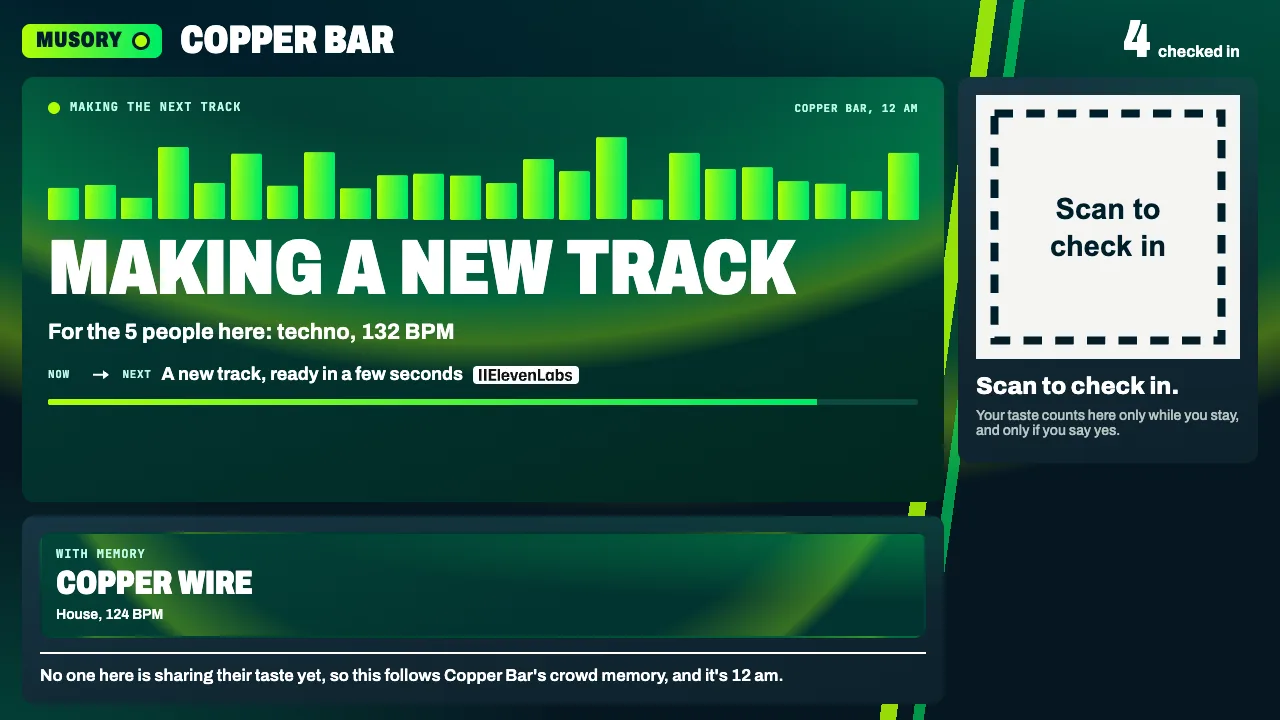
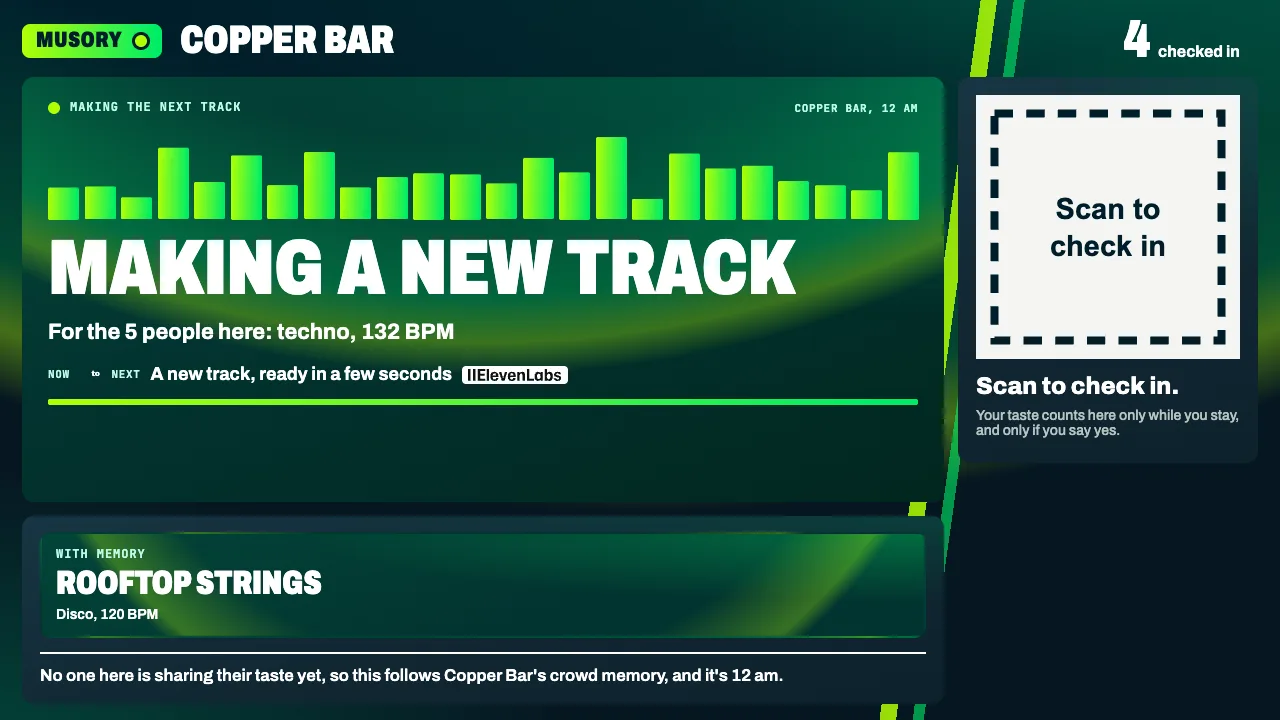
A crowd check through the public link: 15 guests at once

diff --git a/scripts/crowd-public.ts b/scripts/crowd-public.ts
@@ -1,0 +1,52 @@
+// Many guests at once through the public link: 15 headless guests check in with consent, like a few
+// tracks, 3 tell the room what they want, 2 say forget me, all in parallel. Then everyone is forgotten.
+export {};
+const BASE = (process.env.BASE || "").replace(/\/$/, ""); // the public link, e.g. BASE=https://<your-link>
+if (!BASE) throw new Error("Set BASE to the public link");
+const N = Number(process.env.CROWD_N || 15);
+const sleep = (ms: number) => new Promise((r) => setTimeout(r, ms));
+let errors = 0;
+async function post(path: string, body: unknown) {
+  const r = await fetch(BASE + path, { method: "POST", headers: { "content-type": "application/json" }, body: JSON.stringify(body) });
+  const j = await r.json().catch(() => ({}));
+  if (r.status >= 400 && r.status !== 429) errors++;
+  return { status: r.status, ...j };
+}
+let sse = 0;
+const ac = new AbortController();
+void (async () => {
+  const r = await fetch(`${BASE}/events`, { signal: ac.signal });
+  const reader = r.body!.getReader();
+  const dec = new TextDecoder();
+  for (;;) {
+    const { value, done } = await reader.read().catch(() => ({ value: undefined, done: true }));
+    if (done) break;
+    sse += (dec.decode(value).match(/^event:/gm) ?? []).length;
+  }
+})();
+const run = Date.now() % 10000;
+const ids = Array.from({ length: N }, (_, i) => `aud-${run}-${i}`);
+const t0 = Date.now();
+const checkins = await Promise.all(ids.map((id, i) => post("/api/checkin", { personId: id, venueId: i % 3 === 2 ? "basement" : "copper" })));
+const present = (await fetch(`${BASE}/api/room/copper`).then((r) => r.json())).present;
+const samples = ["t13", "t10", "t17", "t15", "t08", "t05"];
+let limited = 0;
+for (const k of [0, 1]) {
+  const rs = await Promise.all(ids.map((id, i) => post("/api/tap", { personId: id, signal: 1, trackId: samples[(i + k) % samples.length] })));
+  limited += rs.filter((r) => r.status === 429).length;
+  await sleep(1100);
+}
+const vibes = await Promise.all(ids.slice(0, 3).map((id) => post("/api/vibe", { personId: id, text: "something dark and driving" })));
+await sleep(1500);
+// Two guests say forget me at the same time; each receipt must count only that guest's records.
+const mine = await Promise.all(ids.slice(3, 5).map((id) => fetch(`${BASE}/api/me?personId=${id}`).then((r) => r.json())));
+const forgets = await Promise.all(ids.slice(3, 5).map((id) => post("/api/forget", { personId: id })));
+const ownOnly = forgets.every((f, i) => f.before?.taps === mine[i].taps.length && f.totalAfter === 0);
+console.log(`${N} guests: check-ins ${checkins.filter((c) => c.status === 200).length}/${N}, distinct ids ${new Set(checkins.map((c) => c.personId)).size}, Copper Bar shows ${present} here`);
+console.log(`likes rate-limited: ${limited}; vibes ok ${vibes.filter((v) => v.status === 200).length}/3; forget receipts count only their own records: ${ownOnly} (${forgets.map((f) => `${f.totalBefore}->${f.totalAfter}`).join(", ")})`);
+console.log(`errors ${errors}, SSE events seen ${sse}, ${((Date.now() - t0) / 1000).toFixed(1)} s`);
+// Clean up: everyone left is forgotten (one after another, so the rooms settle).
+for (const id of ids.slice(5).concat(ids.slice(0, 3))) await post("/api/forget", { personId: id });
+ac.abort();
+console.log("all test guests forgotten");
+process.exit(errors ? 1 : 0);

diff --git a/public/js/phone.js b/public/js/phone.js
@@ -143,7 +143,7 @@ function showForgotten(r) {
   $("forgetting").classList.add("hidden");
   const el = $("receipt");
   const RING = `<svg class="mark ring wide draw" viewBox="0 0 220 110" preserveAspectRatio="none" aria-hidden="true"><path d="M34 5 C 90 1, 160 1, 208 7 C 217 32, 217 78, 209 103 C 150 109, 70 109, 11 103 C 3 78, 3 32, 12 8 C 30 4, 52 3, 70 4"/></svg>`;
-  el.innerHTML = `<div style="display:flex;justify-content:space-between;align-items:center"><a class="back" href="/about" id="receipt-back" aria-label="Back to Musory">&larr; Back</a><span class="wordmark">Musory</span></div>
+  el.innerHTML = `<div style="display:flex;justify-content:space-between;align-items:center"><a class="back" href="/about" id="receipt-back" aria-label="Back to Musory">Back</a><span class="wordmark">Musory</span></div>
     <h1 class="display">You're forgotten</h1>
     <div class="figure marked" id="receipt-count" data-testid="receipt-count">${r.totalBefore}<span class="count-arrow"></span>${r.totalAfter}${RING}</div>
     <p>records about you, deleted in one step</p>
@@ -240,7 +240,7 @@ $("bored").addEventListener("click", () => { $("more").open = false; });
   let x0 = null, dx = 0;
   // One gentle nudge on first load shows the card can be swiped
   if (!reduce) { card.classList.add("nudge"); card.addEventListener("animationend", () => card.classList.remove("nudge"), { once: true }); }
-  const stamps = (v) => { card.querySelector(".stamp-like").style.opacity = Math.max(0, Math.min(1, v / 90)); card.querySelector(".stamp-skip").style.opacity = Math.max(0, Math.min(1, -v / 90)); };
+  const stamps = (v) => { const L = card.querySelector(".edge-l"), Rr = card.querySelector(".edge-r"); const kl = Math.max(0, Math.min(1, -v / 90)), kr = Math.max(0, Math.min(1, v / 90)); L.style.transform = `scale(${1 + kl * .4})`; L.style.color = kl > .3 ? "#FFFFFF" : ""; Rr.style.transform = `scale(${1 + kr * .4})`; Rr.style.color = kr > .3 ? "var(--band)" : ""; card.querySelector(".stamp-like").style.opacity = Math.max(0, Math.min(1, v / 90)); card.querySelector(".stamp-skip").style.opacity = Math.max(0, Math.min(1, -v / 90)); };
   const reset = () => { card.classList.remove("dragging"); card.style.transform = ""; stamps(0); };
   card.addEventListener("pointerdown", (e) => { x0 = e.clientX; dx = 0; card.classList.add("dragging"); card.setPointerCapture(e.pointerId); });
   card.addEventListener("pointermove", (e) => { if (x0 === null) return; dx = e.clientX - x0; card.style.transform = `translateX(${dx}px) rotate(${dx / 18}deg)`; stamps(dx); });

diff --git a/public/phone.html b/public/phone.html
@@ -81,8 +81,8 @@
   .swipe-wrap > .swipe-card { position: absolute; inset: 0; z-index: 1; display: flex; flex-direction: column; justify-content: flex-end; gap: 10px; padding: 24px 22px 54px; touch-action: pan-y; }
   .swipe-card .t { font-size: calc(clamp(42px, 13vw, 60px) * var(--dscale)) !important; line-height: .92; }
   .swipe-card .g { font-size: 18px !important; }
-  .edge { position: absolute; bottom: 18px; font: 700 13px var(--f-mono); letter-spacing: .06em; text-transform: uppercase; color: var(--slab-muted); }
-  .edge-l { left: 22px; } .edge-r { right: 22px; color: var(--band); }
+  .edge { display: inline-flex; align-items: center; gap: 6px; transition: transform .15s var(--ease), color .15s var(--ease); position: absolute; bottom: 18px; font: 700 13px var(--f-mono); letter-spacing: .06em; text-transform: uppercase; color: var(--slab-muted); }
+  .edge-l { left: 22px; transform-origin: left center; } .edge-r { right: 22px; transform-origin: right center; }
   .swipe-wrap .stamp { top: 22px; font-size: 34px; padding: 6px 14px; border-radius: 10px; border-width: 4px; }
   .swipe-wrap .stamp-like { right: 22px; } .swipe-wrap .stamp-skip { left: 22px; }
   .swipe-card.nudge { animation: nudge 1.3s .7s 1 cubic-bezier(.16, 1, .3, 1); }
@@ -164,7 +164,7 @@
         <h2 id="now-title" class="display t" data-track-id="">…</h2>
         <span id="now-meta" class="g"></span>
         <div class="progress"><div id="now-progress"></div></div>
-        <span class="edge edge-l" aria-hidden="true">&larr; Skip</span><span class="edge edge-r" aria-hidden="true">Like &rarr;</span>
+        <span class="edge edge-l" aria-hidden="true"><svg viewBox="0 0 24 24" width="16" height="16" aria-hidden="true"><path d="M5 5l14 14M19 5L5 19" stroke="currentColor" stroke-width="3" stroke-linecap="round" fill="none"/></svg>Skip</span><span class="edge edge-r" aria-hidden="true"><svg viewBox="0 0 24 24" width="16" height="16" aria-hidden="true"><path d="M12 21s-7.5-4.6-9.6-9.2C1 8.6 3 5 6.6 5c2.1 0 3.5 1.2 4.4 2.6.9-1.4 2.3-2.6 4.4-2.6C19 5 21 8.6 21.6 11.8 19.5 16.4 12 21 12 21z" fill="currentColor"/></svg>Like</span>
       </div>
     </div>
     <div class="actions">

diff --git a/public/css/musory.css b/public/css/musory.css
@@ -213,3 +213,7 @@ html, body { overflow-x: clip; }
 .map svg.wires { position: absolute; inset: 0; width: 100%; height: 100%; z-index: 0; overflow: visible; pointer-events: none; }
 .map .wl { position: absolute; z-index: 2; font: 700 13px var(--f-mono); text-transform: uppercase; letter-spacing: .05em; color: var(--band); background: var(--bg-2); padding: 2px 6px; white-space: nowrap; }
 @media (max-width: 760px) { .map { gap: 30px 14px; } .map .nd { min-width: 0; padding: 12px; } .map .nd .word { font-size: 20px; } .map .nd .lg img { height: 20px; } .map .nd span.cap { font-size: 12px; } .map .wl { display: none; } }
+
+/* Counts read "21 to 0": a word, not an arrow glyph or shape */
+.count-arrow { display: inline-block; width: auto; height: auto; background: none; clip-path: none; margin: 0 .22em; vertical-align: .18em; font-size: .42em; font-weight: 900; letter-spacing: 0; }
+.count-arrow::before { content: "to"; }

diff --git a/README.md b/README.md
@@ -72,7 +72,7 @@ The search is exact (`$vectorSearch` with `exact: true`), pre-filtered on the de
 | Question | Rule | Enforced by | Proof (live) |
 |---|---|---|---|
 | How do you keep one client's memory from leaking into another's? | Each venue reads its own crowd memory through its own database login and View. Venue logins can't read guests' taps or taste | Atlas database users with `read` on one View each | Pulse Club's login reading Copper Bar's View: **13 Unauthorized**. A venue login reading `taps`: **13** |
-| How does the agent fix or drop a memory that is wrong or expired? | **Bored of this** marks your likes of the current sound `superseded` (kept, with who and when; Undo restores them). **Tonight only** keeps taps out of your long-term taste unless you tap "Keep this one". **Forget me** removes everything | A transaction for bored and undo; a `constraint`-level validator on taste; one transaction with `$graphLookup` for forget me | A tonight-only tap written into long-term taste: **121**. Forget me: **N → 0** |
+| How does the agent fix or drop a memory that is wrong or expired? | **Bored of this** marks your likes of the current sound `superseded` (kept, with who and when; Undo restores them). **Tonight only** keeps taps out of your long-term taste unless you tap "Keep this one". **Forget me** removes everything | A transaction for bored and undo; a `constraint`-level validator on taste; one transaction with `$graphLookup` for forget me | A tonight-only tap written into long-term taste: **121**. Forget me: **N to 0** |
 | How do you prove memory changed behavior? | Each pick is logged next to the no-memory pick. Before forget me, the guest's page shows what each room will play without them, from the same function forget me is checked against | Decisions in `derived`; the headline number | After forget me, each room's now-playing equals the promised "without you" track |
 
 Other rules the database enforces (`validationLevel: "constraint"`, error 121 otherwise):
